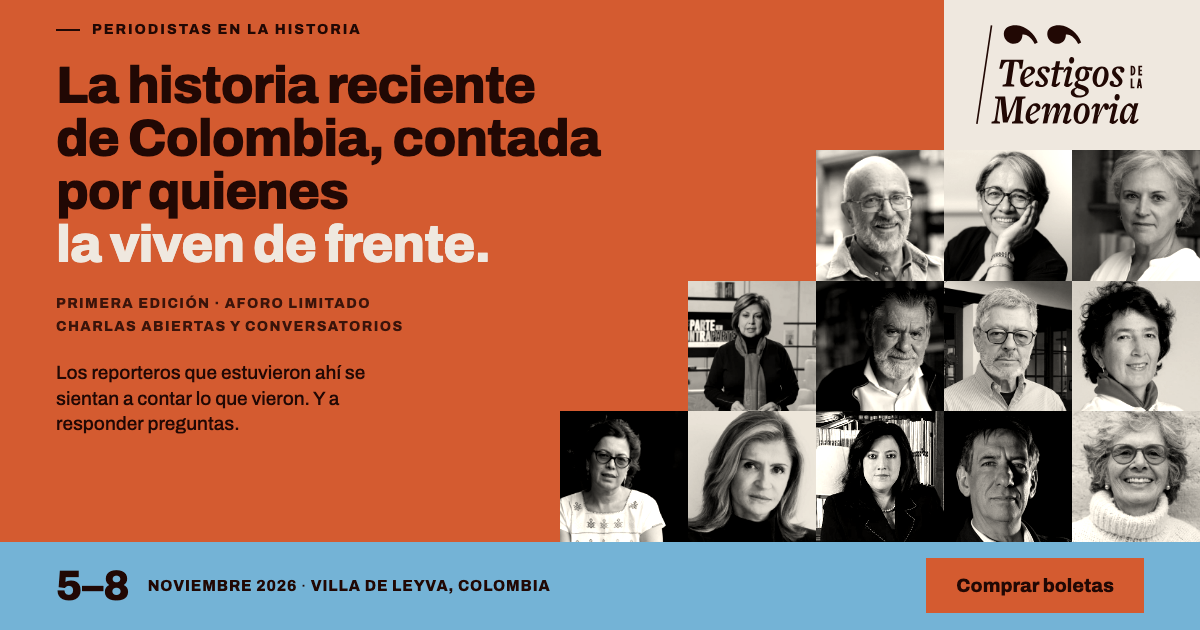
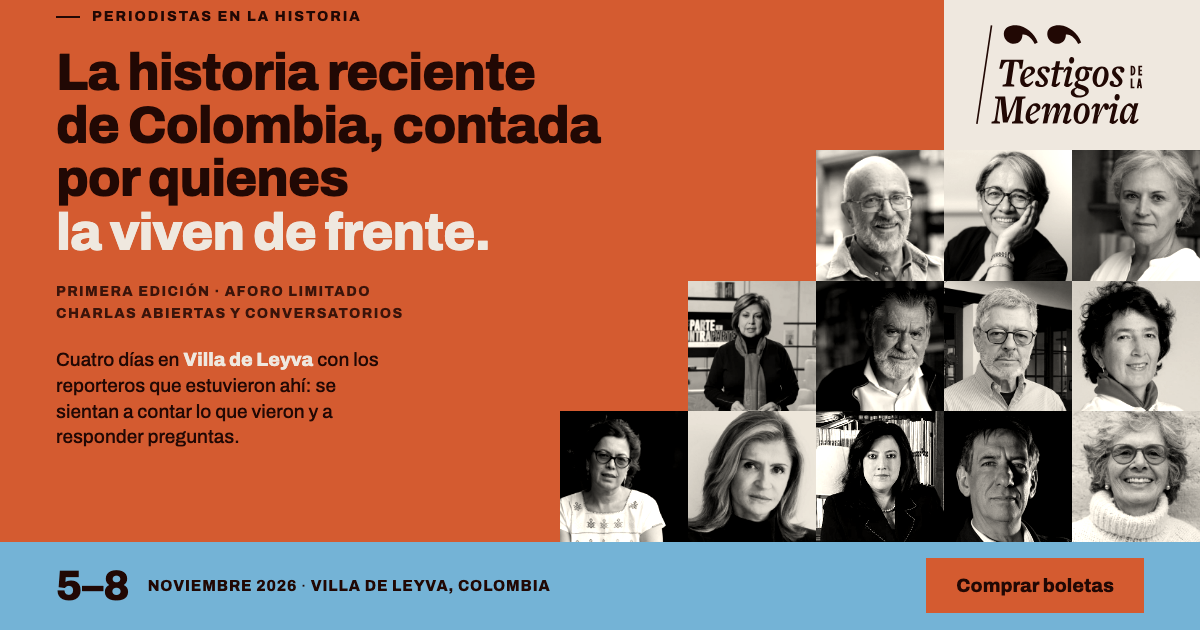
Hero: Villa de Leyva a la vista antes de las boletas
Sin la foto de la casa, nada en el hero decía dónde es el encuentro y la
franja azul es pequeña. Ahora la nota bajo el titular abre con "Villa de
Leyva, Colombia · 5 al 8 de noviembre de 2026" en crema, y la frase
antojadora pasa a "Cuatro días en Villa de Leyva con los reporteros que
estuvieron ahí: se sientan a contar lo que vieron y a responder
preguntas", con el lugar en crema y negrita. La imagen para compartir
lleva la misma frase.

Changed region(s): [[0.0308, 0.0905, 0.5242, 0.4222], [0.0308, 0.4524, 0.3392, 0.7238], [0.0617, 0.0, 0.3083, 0.0603]]

diff --git a/brand/og/og.html b/brand/og/og.html
@@ -39,6 +39,7 @@
   h1 .last { color: var(--cream); }
   .note { font-size: 14px; font-weight: 800; letter-spacing: .1em; text-transform: uppercase; line-height: 1.6; opacity: .85; }
   .pitch { font-size: 19px; font-weight: 500; line-height: 1.35; max-width: 30ch; }
+  .pitch strong { font-weight: 800; color: var(--cream); }
   .brand { grid-column: 5 / 7; grid-row: 1; background: var(--cream); display: flex; align-items: center; justify-content: flex-end; padding-right: 56px; }
   .brand svg { height: 104px; width: auto; color: var(--ink); }
   .tile { background: var(--ink); overflow: hidden; }
@@ -69,7 +70,7 @@
       <span class="last">la viven de frente.</span>
     </h1>
     <p class="note">Primera edición · Aforo limitado<br>Charlas abiertas y conversatorios</p>
-    <p class="pitch">Los reporteros que estuvieron ahí se sientan a contar lo que vieron. Y a responder preguntas.</p>
+    <p class="pitch">Cuatro días en <strong>Villa de Leyva</strong> con los reporteros que estuvieron ahí: se sientan a contar lo que vieron y a responder preguntas.</p>
   </div>
   <div class="brand">
     <svg xmlns="http://www.w3.org/2000/svg" viewBox="110 111 385 235"><use href="../../src/assets/logo/logo-lockup.svg#lockup"/></svg>

diff --git a/src/ui.ts b/src/ui.ts
@@ -28,7 +28,11 @@ const dict = {
   'hero.place': 'Villa de Leyva, Colombia',
   /* Línea de datos bajo el remate: edición, formato y escasez, separados por "·" */
   'hero.tileCta': 'Ver ficha',
-  'hero.pitch': 'Los reporteros que estuvieron ahí se sientan a contar lo que vieron. Y a responder preguntas.',
+  /* El lugar va dentro de la frase y resaltado (2026-09-19): sin la foto
+     de la casa en el hero, nada decía Villa de Leyva antes de las boletas */
+  'hero.pitchBefore': 'Cuatro días en',
+  'hero.pitchPlace': 'Villa de Leyva',
+  'hero.pitchAfter': 'con los reporteros que estuvieron ahí: se sientan a contar lo que vieron y a responder preguntas.',
   'hero.edition': 'Primera edición',
   'hero.format': 'Charlas abiertas y conversatorios',
   'hero.capacity': 'Aforo limitado',
